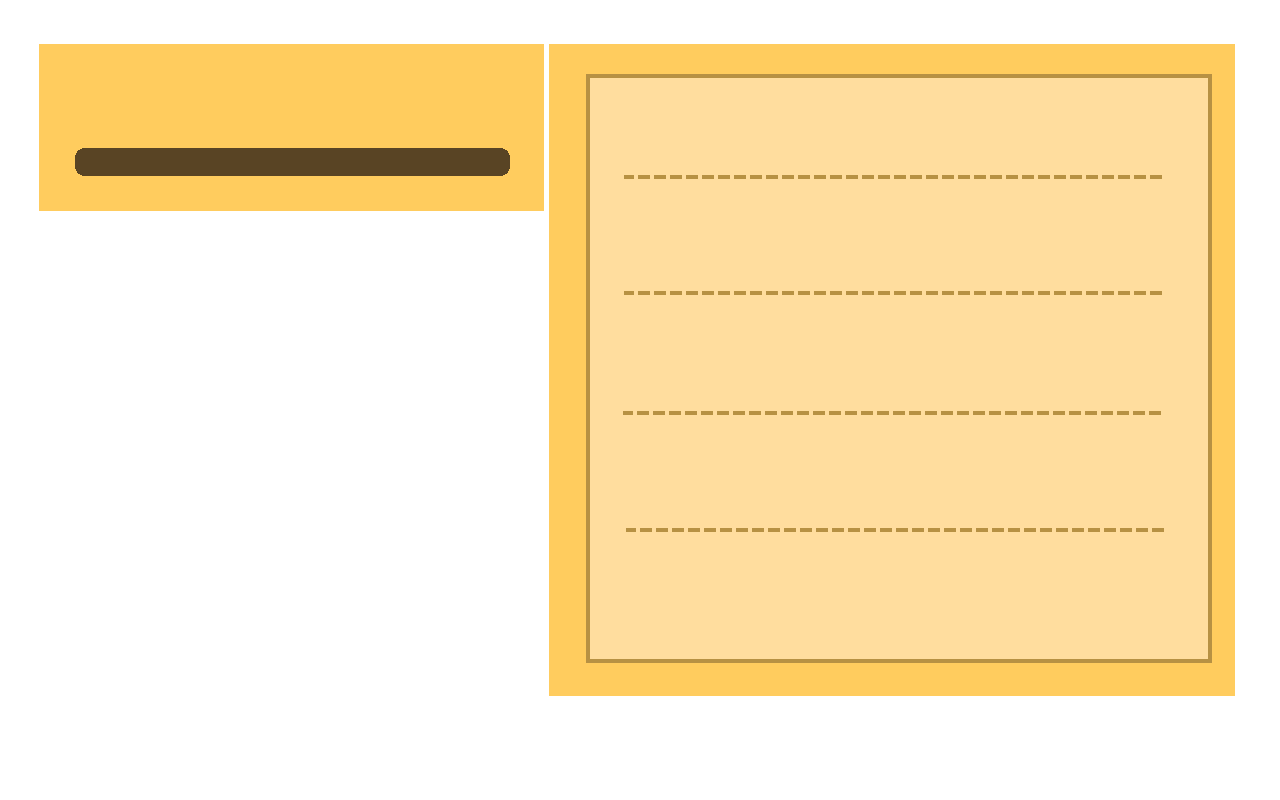
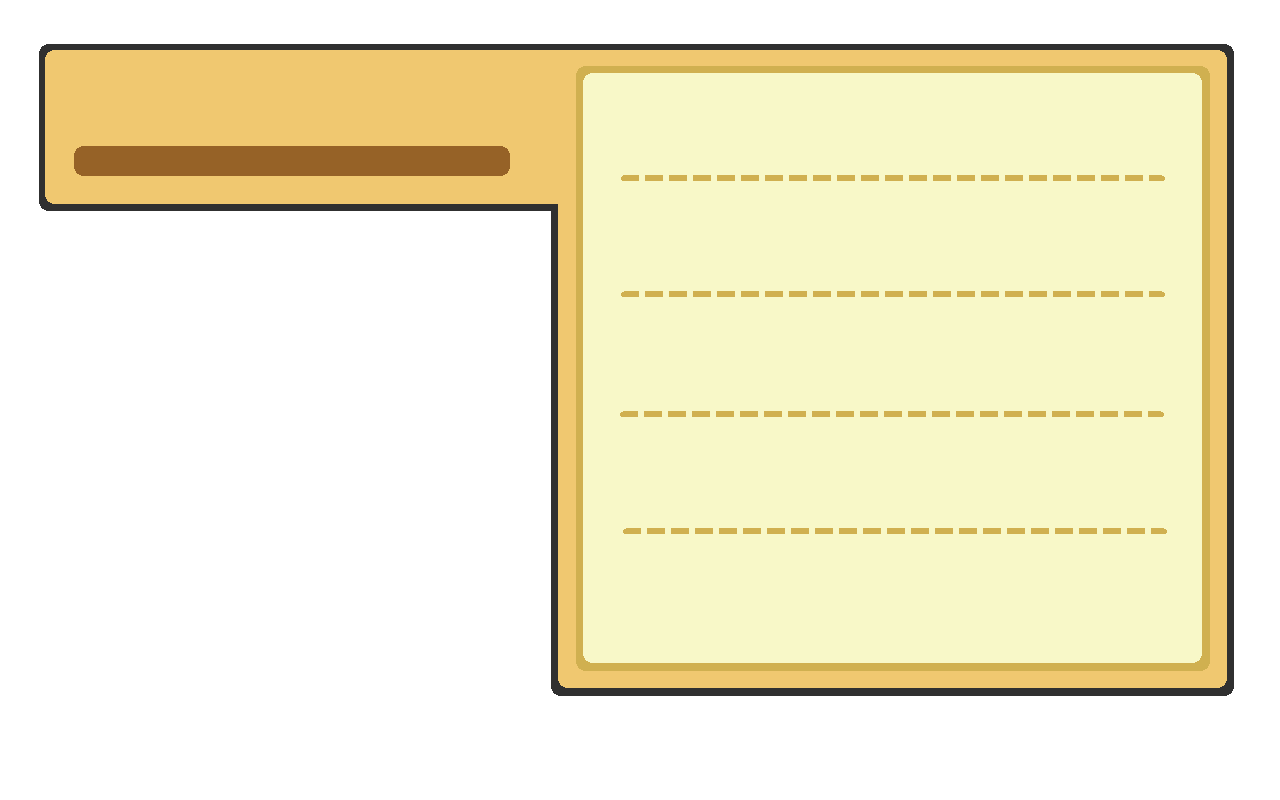
Redesign

diff --git a/gadakecemol.py b/gadakecemol.py
@@ -20,6 +20,7 @@ class Hra:
         self.running = True
         self.dialog = "None"
         self.font = pygame.font.Font("pokemon_pixel_font.ttf", 64)
+        self.bigfont = pygame.font.Font("pokemon_pixel_font.ttf", 82)
         self.animace_chozeni_ted = 0
         self.show = False
         self.zaplejdialog = False
@@ -70,6 +71,7 @@ class Hra:
 
 
         self.prahamon = [
+            npc.Prahamon("Ohnivak", 15)
             # prahamoni
         ]
 
@@ -213,13 +215,15 @@ class Hra:
 
             if self.show_inventar:
                 self.screen.blit(imgs.inventar, (0, 0))
-                self.screen.blit(self.font.render("INVENTAR", False, (0, 0, 0)), (150, 80))
+                self.screen.blit(self.bigfont.render("INVENTAR", False, (50, 50, 50)), (125, 95))
+                self.screen.blit(self.bigfont.render("INVENTAR", False, (255, 255, 255)), (120, 90))
                 inventar.inventory.draw(self.screen, self.font, self.inventar_offset, 4)
                 inventar.sipecka(self.screen, imgs, self.poziceinventare, self.inventar_offset)
 
             if self.show_prahadex:
                 self.screen.blit(imgs.prahadex, (0, 0))
-                self.screen.blit(self.font.render("PRAHADEX", False, (0, 0, 0)), (150, 80))
+                self.screen.blit(self.bigfont.render("PRAHADEX", False, (50, 50, 50)), (125, 95))
+                self.screen.blit(self.bigfont.render("PRAHADEX", False, (255, 255, 255)), (120, 90))
                 prahadex.prahadex.draw(self.screen,self.font,self.inventar_offset, 4)
                 prahadex.sipecka(self.screen,imgs,self.poziceinventare, self.inventar_offset)
 
@@ -229,7 +233,9 @@ class Hra:
 
             if self.shop:
                 self.screen.blit(imgs.shop, (0, 0))
-                self.screen.blit(self.font.render("U PANA DONGA", False, (255, 255, 255)), (150, 80))
+                self.screen.blit(self.bigfont.render("U PANA DONGA", False, (50, 50, 50)), (125, 95))
+                self.screen.blit(self.bigfont.render("U PANA DONGA", False, (255, 255, 255)), (120, 90))
+                self.screen.blit(self.font.render(f"{self.penize}Czk", False, (50, 50, 50)), (303, 253))
                 self.screen.blit(self.font.render(f"{self.penize}Czk", False, (255, 255, 255)), (300, 250))
                 shop.shop.draw(self.screen, self.font, self.inventar_offset, 4)
                 shop.sipecka(self.screen, imgs, self.poziceinventare, self.inventar_offset)
@@ -256,13 +262,13 @@ class Hra:
                 self.screen.fill((0, 40, 0))
                 self.screen.blit(imgs.dialogoveokno, (30, 600))
                 x, y = 830, 110
-
-
-
                 self.screen.blit(imgs.battlemenu, (800, 502))
-                self.screen.blit(imgs.ptak , (200, 500))
+                prahamon = list(prahadex.prahadex.prahamoni.values())[0]
+                obrazek = imgs.prahamon_obrazky.get(prahamon.name)
+                if obrazek:
+                    self.screen.blit(obrazek, (200, 500))
 
-            pygame.draw.rect(self.screen, (0, 0, 0), (1060 - self.camera_x, 0 - self.camera_y, 820, 400), 2)
+            # pygame.draw.rect(self.screen, (0, 0, 0), (1060 - self.camera_x, 0 - self.camera_y, 820, 400), 2)
 
 
             if self.show or self.zaplejdialog:

diff --git a/nastaveni.py b/nastaveni.py
@@ -18,6 +18,7 @@ velikost_postavy = (96, 96)
 
 oak = img("obrazky/oak.png", (51,64))
 ptak = img("obrazky/ptak.png", (51, 64))
+ohnivak = img("obrazky/oak.png", (51, 64))
 cong = img("obrazky/cong.png", (51, 66))
 babisek = img("obrazky/babisek.png", (92, 70))
 
@@ -70,4 +71,7 @@ pivko = img("obrazky/prahabally/pivko.png", (24, 45))
 
 # sem proste davej ty obrazky ono by se to pak moc stradalo, az toho bude vic rozdelime to do vic categories
 
-
+prahamon_obrazky = {
+    "Ptak": ptak,
+    "Ohnivak": ohnivak,
+}
